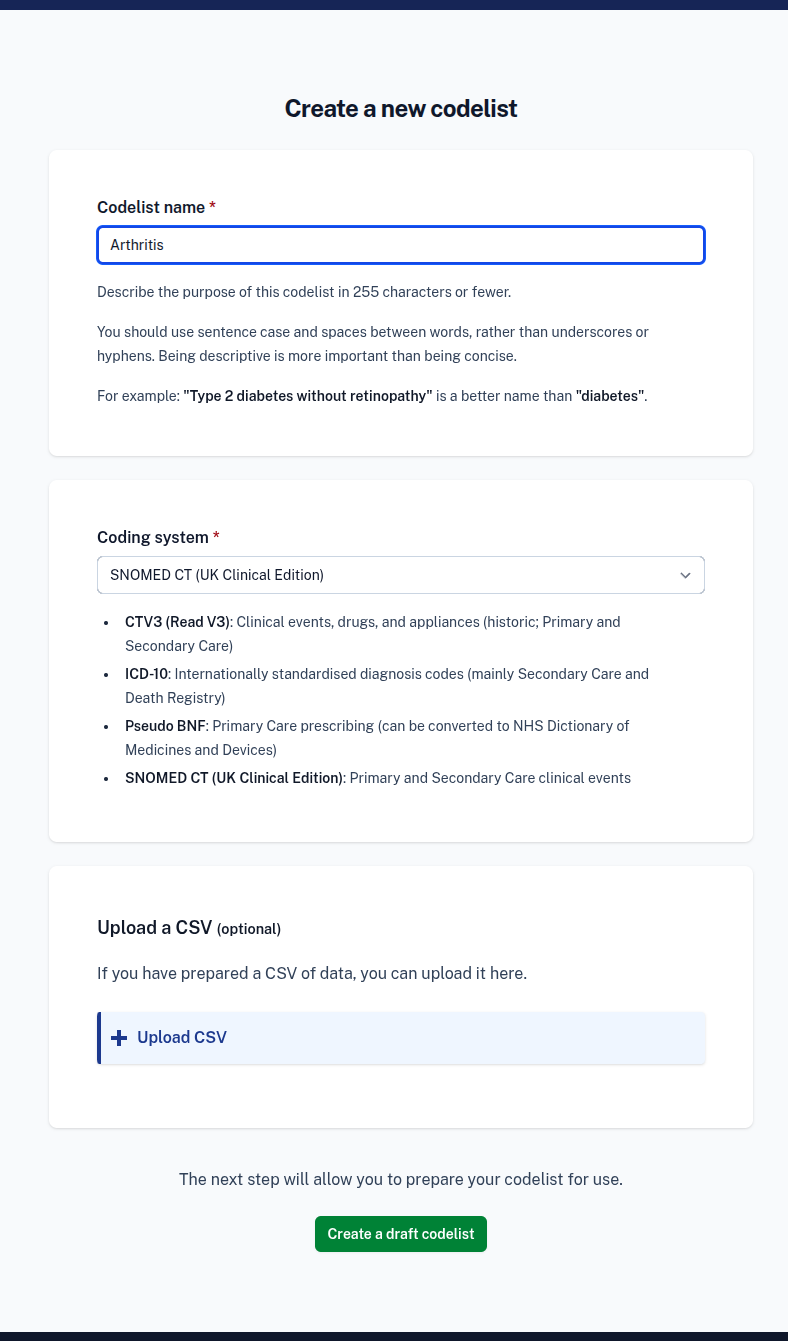
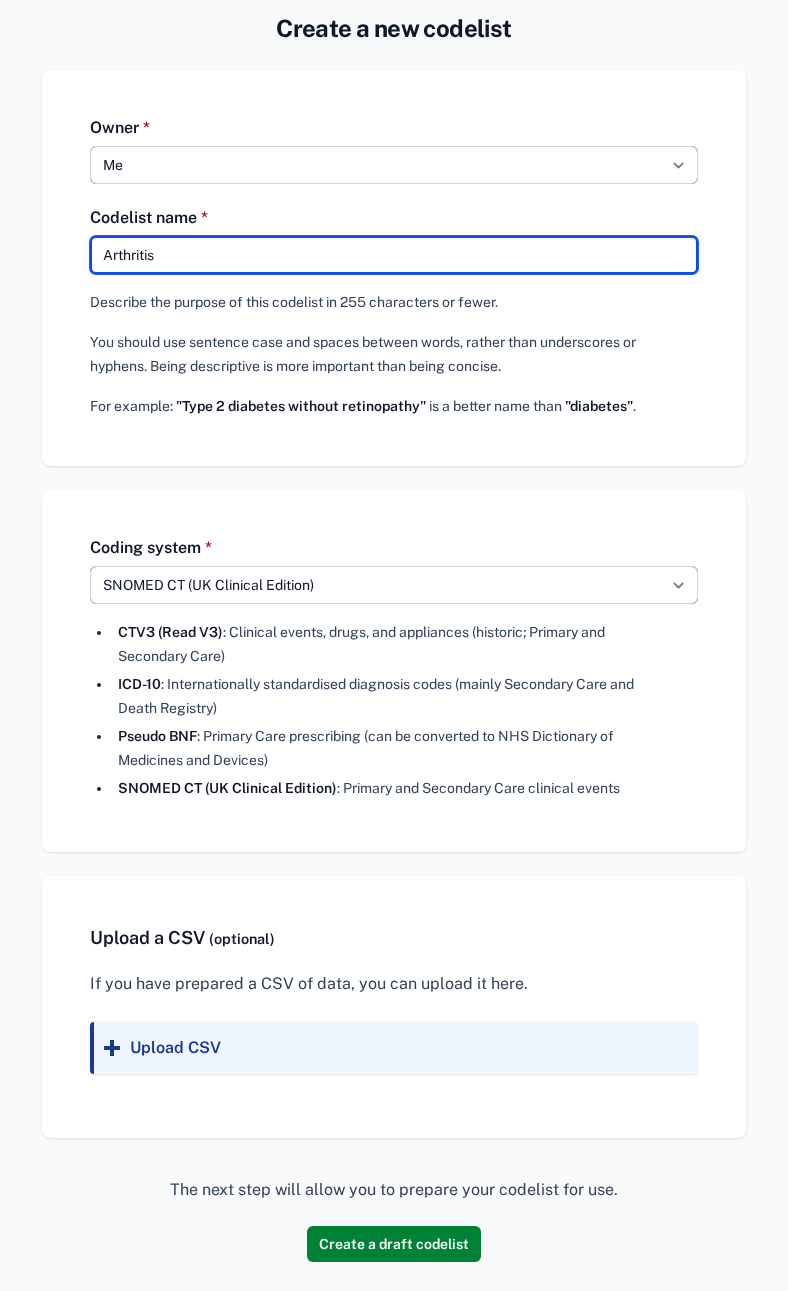
Update again

diff --git a/opencodelists/tests/functional/test_docs_screenshots.py b/opencodelists/tests/functional/test_docs_screenshots.py
@@ -148,14 +148,6 @@ def test_generate_non_org_user_screen_shots(
         extra={"height": -2},
     )
 
-    # Create a codelist button.
-    page.get_by_role("link", name="My codelists").click()
-    screenshot_element_with_padding(
-        page,
-        page.get_by_role("link", name="Create a codelist!"),
-        "create-codelist-button.png",
-    )
-
 
 def test_generate_org_user_screen_shots(
     live_server,
@@ -176,3 +168,27 @@ def test_generate_org_user_screen_shots(
         "my-organisations.png",
         extra={"height": -2},
     )
+
+    # Create a codelist button.
+    page.get_by_role("link", name="My codelists").click()
+    screenshot_element_with_padding(
+        page,
+        page.get_by_role("link", name="Create a codelist!"),
+        "create-codelist-button.png",
+    )
+
+    page.get_by_role("link", name="Create a codelist!").click()
+
+    page.get_by_role("textbox", name="Codelist name *").fill("Arthritis")
+    page.get_by_label("Coding system *").select_option("snomedct")
+
+    # Codelist creation page.
+    screenshot_element_with_padding(
+        page,
+        page.locator("div.container > form"),
+        "create-new-codelist-page.png",
+        extra={"y": 80, "height": -140},
+        full_page=True,
+    )
+
+    page.get_by_role("button", name="Create").click()

diff --git a/userdocs/creating-a-codelist-from-a-csv-file.md b/userdocs/creating-a-codelist-from-a-csv-file.md
@@ -10,7 +10,7 @@ To create an OPCS-4 or dm+d codelist, please see the notes at the bottom of this
 
 If you are a member of an organisation, you can also choose an owner for the codelist (your own account or an organisation account).
 
-        create-a-codelist-1.png
+        create-codelist-button.png
 
 ### Requirements for uploading codelists to OpenCodelists
 

diff --git a/userdocs/creating-a-codelist-from-scratch.md b/userdocs/creating-a-codelist-from-scratch.md
@@ -22,7 +22,7 @@ We currently support codelists using the following coding systems:
 
 Then click _Create_.
 
-        create-form-1.png
+        create-new-codelist-page.png
 
 You'll be taken to a page that is nearly blank.
 
